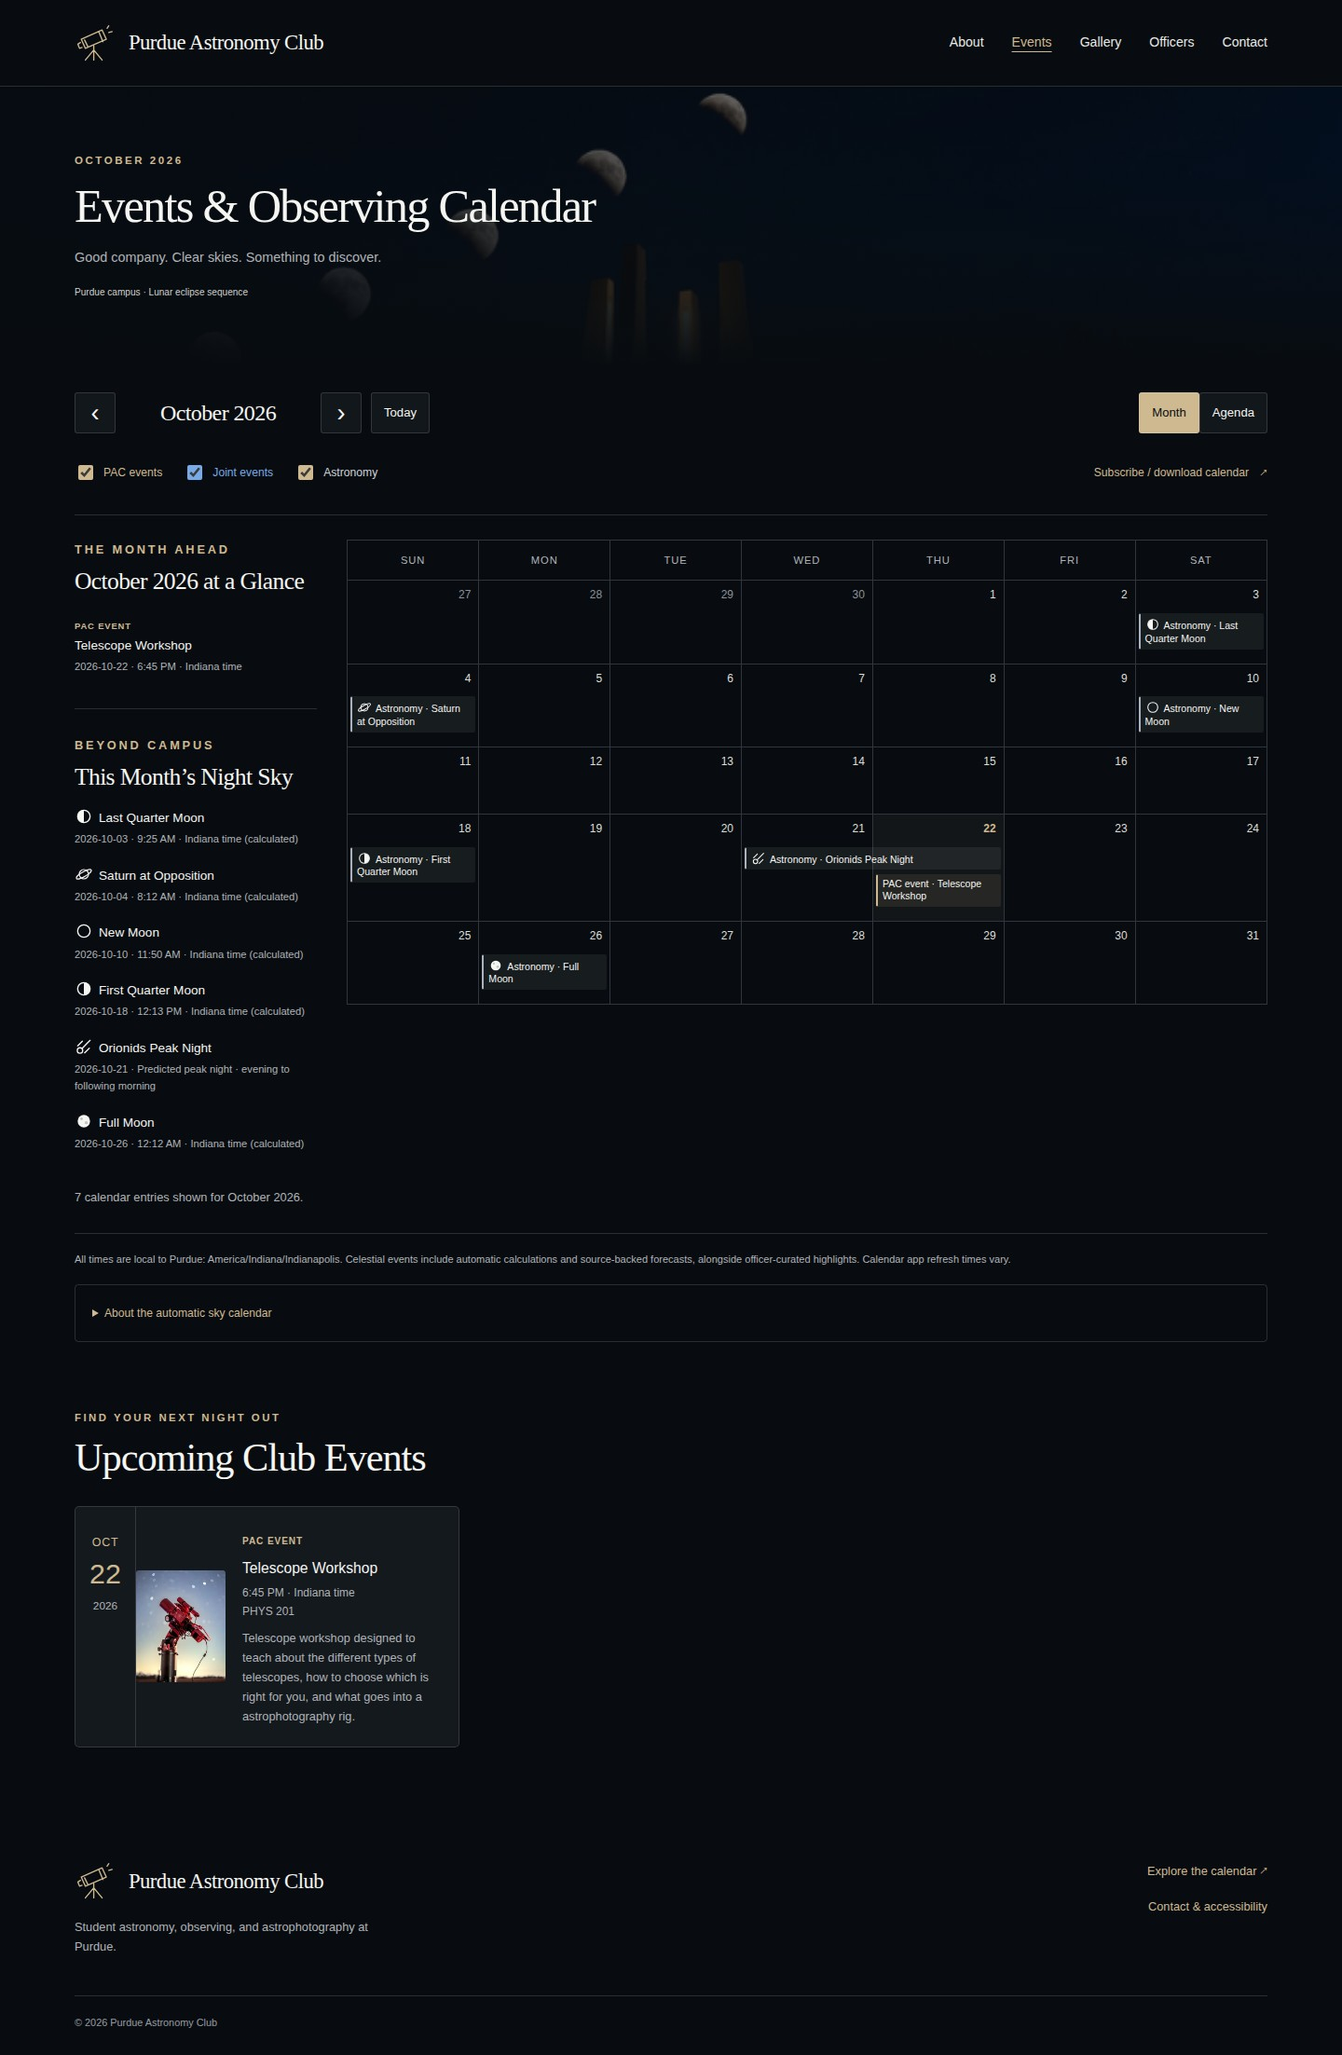
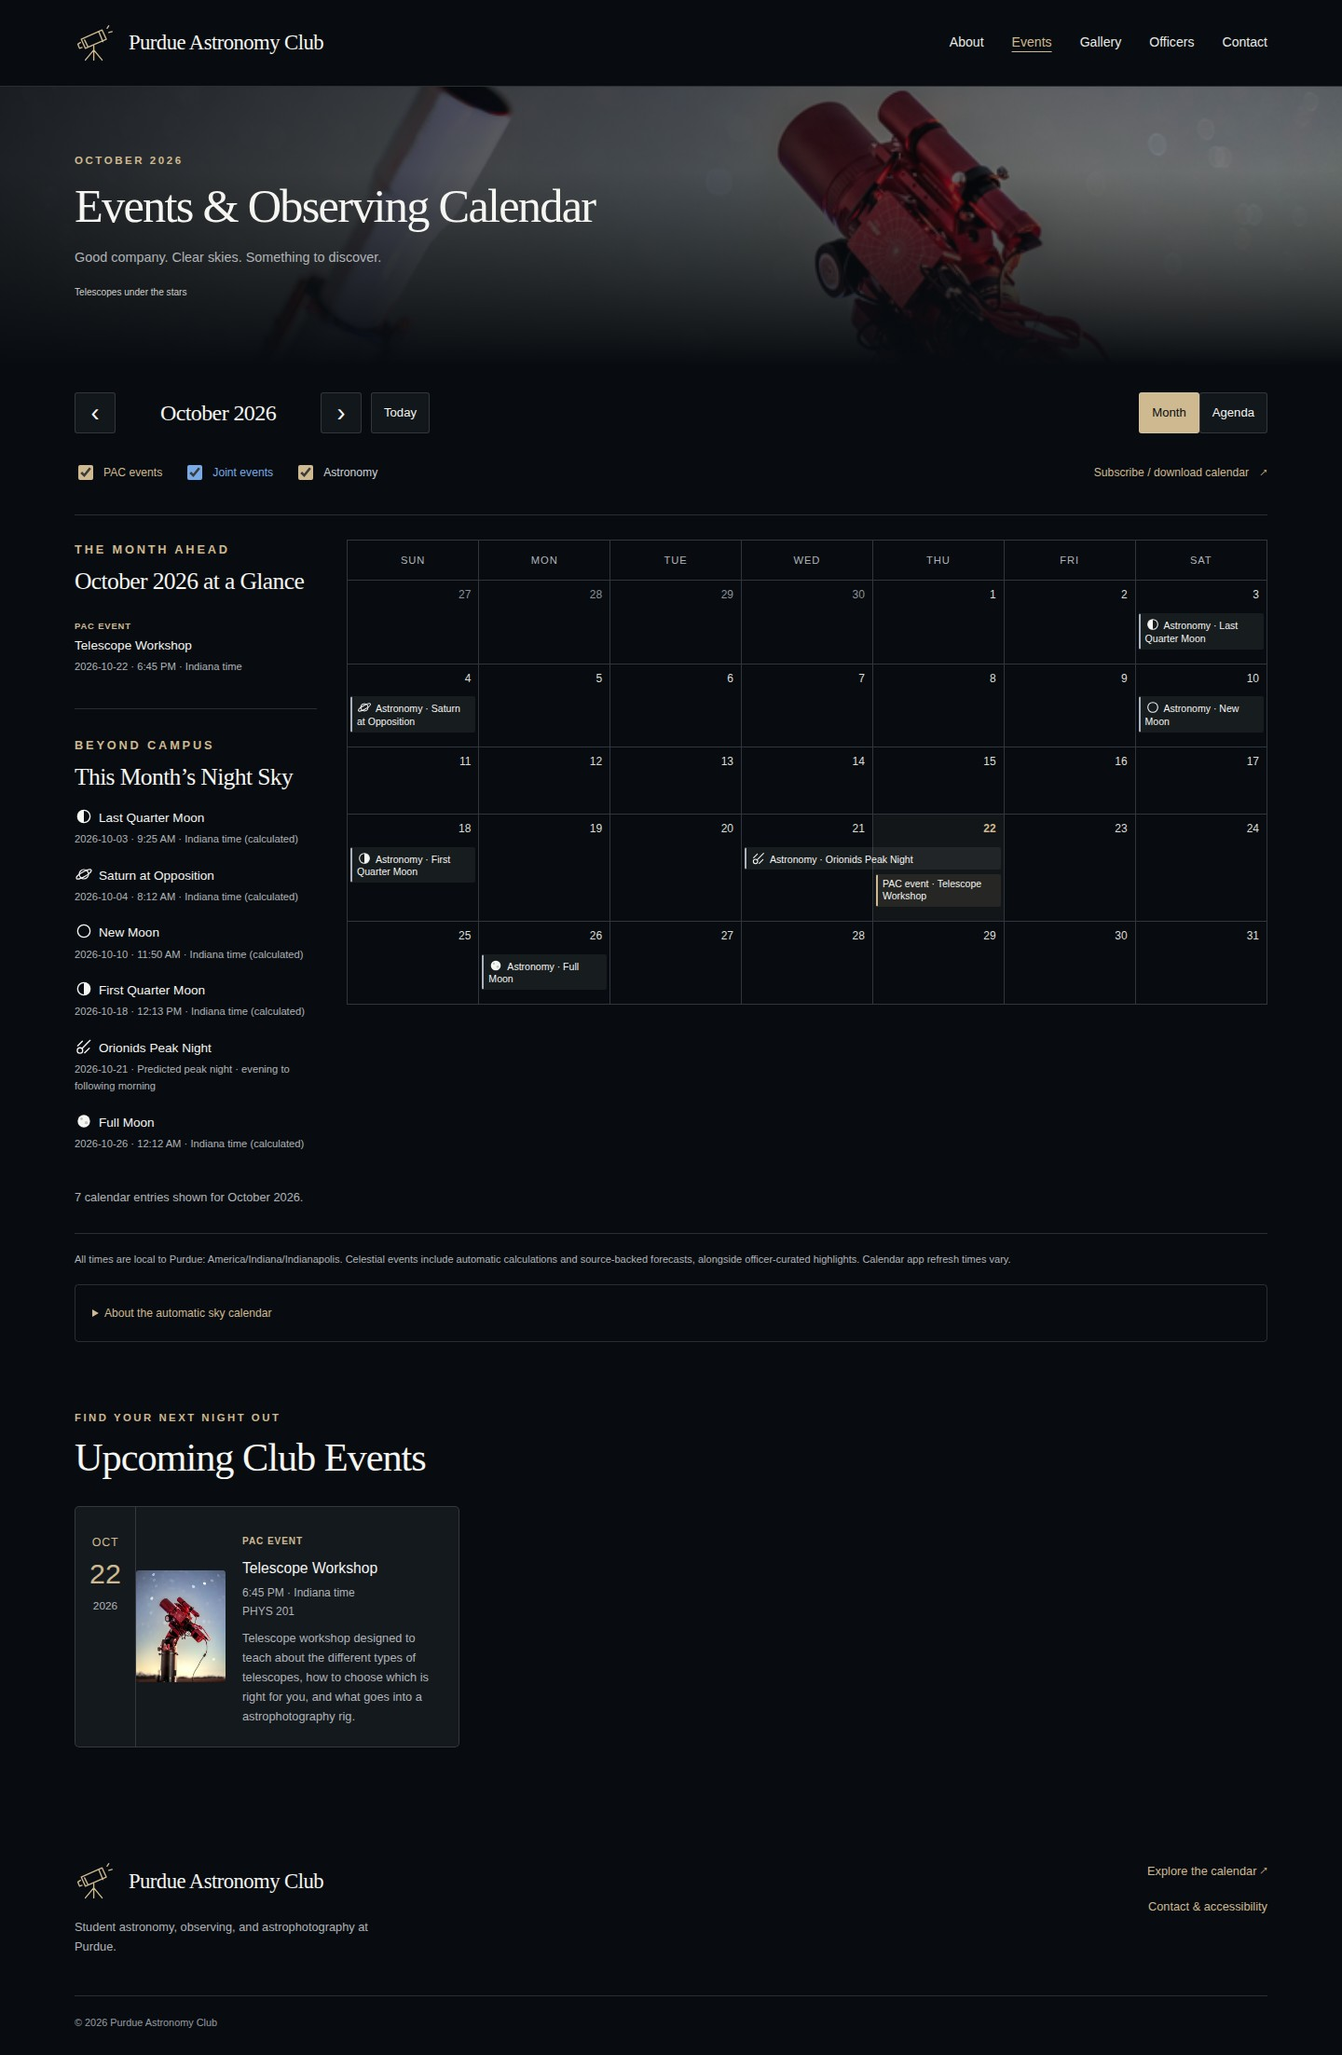
Use telescope photo for Events and bypass stale calendar caches

Changed region(s): [[0.0312, 0.0308, 1.0, 0.185]]

diff --git a/tests/e2e/project-path.spec.js b/tests/e2e/project-path.spec.js
@@ -11,6 +11,7 @@ test('a GitHub Pages project path loads styles, photos, calendar data and intern
   const checkout = mkdtempSync(join(tmpdir(), 'pac-project-test-'));
   const ignored = new Set(['media', 'drive-gallery', 'events', 'astronomy', 'events.json', 'months.json', 'calendar.ics']);
   let server;
+  let seedStaleCalendar = true;
   try {
     for (const folder of ['assets', 'content', 'data', 'layouts', 'static', 'scripts', 'hugo.yaml']) {
       cpSync(join(source, folder), join(checkout, folder), {recursive: true, filter: path => {
@@ -25,10 +26,17 @@ test('a GitHub Pages project path loads styles, photos, calendar data and intern
     });
     // Serve only /website/. A mistakenly requested /css, /media or /events.json
     // must return 404, matching GitHub project hosting instead of the root preview.
-    const types = {'.html': 'text/html', '.css': 'text/css', '.js': 'text/javascript', '.json': 'application/json', '.svg': 'image/svg+xml', '.webp': 'image/webp', '.ics': 'text/calendar'};
+    const types = {'.html': 'text/html', '.css': 'text/css', '.js': 'text/javascript', '.json': 'application/json', '.svg': 'image/svg+xml', '.webp': 'image/webp', '.png': 'image/png', '.ics': 'text/calendar'};
     server = createServer((req, res) => {
       const path = new URL(req.url, 'http://localhost').pathname;
       if (!path.startsWith('/website/')) { res.writeHead(404).end(); return; }
+      if (seedStaleCalendar && req.url === '/website/events/') {
+        seedStaleCalendar = false;
+        res.setHeader('Content-Type', 'text/html');
+        res.setHeader('Cache-Control', 'max-age=600');
+        res.end('<!doctype html><h1>Old cached Events page</h1>');
+        return;
+      }
       let file = join(checkout, 'public', decodeURIComponent(path.slice('/website/'.length)));
       if (existsSync(file) && statSync(file).isDirectory()) file = join(file, 'index.html');
       if (!existsSync(file)) { res.writeHead(404).end(); return; }
@@ -37,6 +45,10 @@ test('a GitHub Pages project path loads styles, photos, calendar data and intern
     });
     await new Promise(resolve => server.listen(0, '127.0.0.1', resolve));
     const base = `http://127.0.0.1:${server.address().port}/website/`;
+    // Reproduce visiting Events before a deployment. Clicking from the updated
+    // homepage must bypass this still-fresh cached HTML without a manual reload.
+    await page.goto(base + 'events/');
+    await expect(page.getByRole('heading')).toHaveText('Old cached Events page');
     const failures = [];
     page.on('response', response => { if (response.status() >= 400) failures.push(response.url()); });
     page.on('pageerror', error => failures.push(error.message));
@@ -47,8 +59,17 @@ test('a GitHub Pages project path loads styles, photos, calendar data and intern
     await page.locator('.hero-image').evaluate(img => img.decode());
     if (browserName === 'chromium') await page.screenshot({path: 'docs/screenshots/project-home-desktop.jpg', type: 'jpeg', quality: 90});
     await page.getByRole('navigation', {name: 'Main navigation'}).getByRole('link', {name: 'Events', exact: true}).click();
-    await expect(page).toHaveURL(/\/website\/events\/(?:\?month=\d{4}-\d{2})?$/);
+    expect(new URL(page.url()).pathname).toBe('/website/events/');
+    expect(new URL(page.url()).searchParams.get('v')).toMatch(/^[a-f0-9]{12}$/);
     await page.waitForFunction(() => window.calendarReady === true);
+    const banner = page.locator('#month-banner');
+    await expect(banner).toHaveAttribute('src', /^\/website\/images\/events-telescopes\.[a-f0-9]{64}\.png$/);
+    await banner.evaluate(img => img.decode());
+    const telescopeImage = await banner.getAttribute('src');
+    await page.getByRole('button', {name: 'Next month', exact: true}).click();
+    await expect(banner).toHaveAttribute('src', telescopeImage);
+    await expect(page.locator('#banner-credit')).toHaveText('Telescopes under the stars');
+    await page.getByRole('button', {name: 'Previous month', exact: true}).click();
     await expect(page.locator('#enhanced-calendar')).toBeVisible();
     await expect(page.getByRole('link', {name: 'Subscribe / download calendar'})).toHaveAttribute('href', '/website/calendar.ics');
     const event = page.locator('#calendar a[href^="/website/astronomy/"]').first();

diff --git a/layouts/_partials/calendar.html b/layouts/_partials/calendar.html
@@ -1,6 +1,6 @@
-{{ $fallback := resources.Get "images/hero-lunar-eclipse.png" }}
+{{ $photo := resources.Get "images/events-telescopes.png" }}{{ $fallback := $photo | fingerprint }}
 <div class="calendar-page" data-calendar-page>
-<section class="calendar-banner"><img id="month-banner" src="{{ $fallback.RelPermalink }}" alt="Sequence of lunar eclipse phases above an illuminated sculpture on Purdue’s campus." width="{{ $fallback.Width }}" height="{{ $fallback.Height }}"><div class="calendar-banner-shade"></div><div class="container"><p class="eyebrow" id="banner-month">{{ now.Format "January 2006" }}</p><h1>Events & Observing Calendar</h1><p>Good company. Clear skies. Something to discover.</p><p id="banner-credit" class="photo-credit">Purdue campus · Lunar eclipse sequence</p></div></section>
+<section class="calendar-banner"><img id="month-banner" src="{{ $fallback.RelPermalink }}" alt="Two telescopes beneath a starry sky, with red light illuminating the equipment." width="{{ $photo.Width }}" height="{{ $photo.Height }}"><div class="calendar-banner-shade"></div><div class="container"><p class="eyebrow" id="banner-month">{{ now.Format "January 2006" }}</p><h1>Events & Observing Calendar</h1><p>Good company. Clear skies. Something to discover.</p><p id="banner-credit" class="photo-credit">Telescopes under the stars</p></div></section>
 <div class="container calendar-content"><div class="calendar-toolbar" id="calendar-controls" hidden><div class="month-navigation"><button type="button" id="previous-month" aria-label="Previous month">‹</button><h2 id="month-title" aria-live="polite"></h2><button type="button" id="next-month" aria-label="Next month">›</button><button type="button" id="today-month">Today</button></div><div class="view-controls"><button type="button" data-view="dayGridMonth" aria-pressed="true">Month</button><button type="button" data-view="listMonth" aria-pressed="false">Agenda</button></div></div>
 <div class="calendar-topline"><fieldset class="calendar-filters" id="calendar-filters" hidden><legend class="sr-only">Show calendar categories</legend><label class="type-pac"><input type="checkbox" value="pac" checked> PAC events</label><label class="type-joint"><input type="checkbox" value="joint" checked> Joint events</label><label class="type-astronomy"><input type="checkbox" value="astronomy" checked> Astronomy</label></fieldset><a class="text-link subscribe-link" href="{{ relURL "calendar.ics" }}">Subscribe / download calendar <span aria-hidden="true">↗</span></a></div>
 <div class="calendar-layout" id="enhanced-calendar" hidden><aside class="calendar-sidebar"><section><p class="eyebrow">The month ahead</p><h2 id="glance-title">At a Glance</h2><div id="month-overview" aria-live="polite"></div></section><section><p class="eyebrow">Beyond campus</p><h2>This Month’s Night Sky</h2><div id="sky-notes"></div></section></aside><div id="calendar" aria-label="Events calendar"></div></div>

diff --git a/layouts/home.html b/layouts/home.html
@@ -3,7 +3,7 @@
 <section class="activities container" aria-label="What we explore">
 {{ range slice (dict "icon" "telescope" "title" "Observing Nights" "text" "Look up. See more.") (dict "icon" "camera" "title" "Astrophotography" "text" "Capture a little infinity.") (dict "icon" "workshop" "title" "Workshops" "text" "Learn through discovery.") (dict "icon" "community" "title" "Community" "text" "Curiosity brings us together.") }}
 <div>{{ partial "icon.html" .icon }}<h2>{{ .title }}</h2><p>{{ .text }}</p></div>{{ end }}</section>
-<section class="section container"><div class="section-heading"><div><p class="eyebrow">Under the same sky</p><h2>Upcoming Events</h2></div><a class="text-link" href="{{ relURL "events/" }}">View the calendar <span aria-hidden="true">→</span></a></div>
+<section class="section container"><div class="section-heading"><div><p class="eyebrow">Under the same sky</p><h2>Upcoming Events</h2></div><a class="text-link" href="{{ partial "events-url.html" . }}">View the calendar <span aria-hidden="true">→</span></a></div>
 {{ $events := where hugo.Data.generated.events "upcoming" true }}{{ if $events }}<div class="event-grid">{{ range first 3 $events }}{{ partial "event-card.html" . }}{{ end }}</div>{{ else }}{{ partial "empty-state.html" (dict "title" "The next night out is on the horizon." "text" "No events announced yet. Check the calendar for the next opportunity to explore with us." "url" "/events/" "label" "Explore the calendar") }}{{ end }}</section>
 {{ if hugo.Data.home.show_gallery }}<section class="gallery-feature section"><div class="container"><div class="section-heading"><div><p class="eyebrow">A different perspective</p><h2 id="home-gallery-title">Through Our Lenses</h2></div><a class="text-link" href="{{ relURL "gallery/" }}">Explore the gallery <span aria-hidden="true">→</span></a></div>
 {{ $photos := slice }}

diff --git a/layouts/_partials/hero.html b/layouts/_partials/hero.html
@@ -1,5 +1,5 @@
 {{ $home := hugo.Data.home }}{{ $image := (resources.Get "images/hero-lunar-eclipse.png").RelPermalink }}{{ with $home.hero_image }}{{ $image = . }}{{ end }}
 <section class="hero" aria-labelledby="hero-title">
 {{ partial "optimized-image.html" (dict "src" $image "alt" $home.hero_image_alt "class" "hero-image" "loading" "eager" "sizes" "100vw") }}
-<div class="hero-shade"></div><div class="container hero-content">{{ with $home.eyebrow }}<p class="eyebrow">{{ . }}</p>{{ end }}<h1 id="hero-title">{{ if eq $home.headline "Purdue Astronomy Club" }}Purdue<br>Astronomy Club{{ else }}{{ $home.headline }}{{ end }}</h1><p class="hero-intro">{{ $home.introduction }}</p><div class="button-row"><a class="button" href="{{ relURL "events/" }}">{{ $home.primary_cta | default "Upcoming Events" }} <span aria-hidden="true">→</span></a><a class="button button-outline" href="{{ relURL "about/" }}">{{ $home.secondary_cta | default "About Our Club" }}</a></div></div>
+<div class="hero-shade"></div><div class="container hero-content">{{ with $home.eyebrow }}<p class="eyebrow">{{ . }}</p>{{ end }}<h1 id="hero-title">{{ if eq $home.headline "Purdue Astronomy Club" }}Purdue<br>Astronomy Club{{ else }}{{ $home.headline }}{{ end }}</h1><p class="hero-intro">{{ $home.introduction }}</p><div class="button-row"><a class="button" href="{{ partial "events-url.html" . }}">{{ $home.primary_cta | default "Upcoming Events" }} <span aria-hidden="true">→</span></a><a class="button button-outline" href="{{ relURL "about/" }}">{{ $home.secondary_cta | default "About Our Club" }}</a></div></div>
 <div class="hero-note">{{ $home.hero_credit | default "Club image" }}</div></section>

diff --git a/layouts/_partials/footer.html b/layouts/_partials/footer.html
@@ -1,6 +1,6 @@
 <footer class="site-footer"><div class="container footer-main">
 <div><a class="brand" href="{{ relURL "" }}"><span class="brand-mark">{{ partial "icon.html" "telescope" }}</span><span>Purdue Astronomy Club</span></a><p>{{ hugo.Data.site.footer_text }}</p></div>
-<div class="footer-links">{{ if where site.RegularPages "Section" "sponsors" }}<a href="{{ relURL "sponsors/" }}">Sponsors & partners</a>{{ end }}<a href="{{ relURL "events/" }}">Explore the calendar <span aria-hidden="true">↗</span></a><a href="{{ relURL "contact/" }}">Contact & accessibility</a>
+<div class="footer-links">{{ if where site.RegularPages "Section" "sponsors" }}<a href="{{ relURL "sponsors/" }}">Sponsors & partners</a>{{ end }}<a href="{{ partial "events-url.html" . }}">Explore the calendar <span aria-hidden="true">↗</span></a><a href="{{ relURL "contact/" }}">Contact & accessibility</a>
 {{ with hugo.Data.site.public_email }}<a href="mailto:{{ . }}">Email the club</a>{{ end }}
 {{ range slice "instagram" "discord" "github" }}{{ $label := . }}{{ with index hugo.Data.site . }}<a href="{{ . }}">{{ if eq $label "github" }}GitHub{{ else }}{{ $label | title }}{{ end }}</a>{{ end }}{{ end }}
 </div></div><div class="container footer-bottom"><span>© {{ now.Format "2006" }} Purdue Astronomy Club</span></div></footer>

diff --git a/layouts/_partials/head.html b/layouts/_partials/head.html
@@ -13,6 +13,7 @@
 {{ $hero := resources.Get "images/hero-lunar-eclipse.png" }}
 {{ $ogImage := $hero.Permalink }}{{ $ogAlt := "Sequence of lunar eclipse phases above an illuminated sculpture on Purdue’s campus." }}
 {{ if .IsHome }}{{ with hugo.Data.home.hero_image }}{{ $ogImage = (partial "site-url.html" .) | absURL }}{{ $ogAlt = hugo.Data.home.hero_image_alt }}{{ end }}{{ else }}{{ with .Params.image | default .Params.cover_image }}{{ $ogImage = (partial "site-url.html" .) | absURL }}{{ $ogAlt = $.Params.alt | default $.Params.image_alt | default $.Params.cover_alt }}{{ end }}{{ end }}
+{{ if or (and .IsSection (eq .Section "events")) (eq .Layout "poster") }}{{ $ogImage = ((resources.Get "images/events-telescopes.png") | fingerprint).Permalink }}{{ $ogAlt = "Two telescopes beneath a starry sky, with red light illuminating the equipment." }}{{ end }}
 <meta property="og:image" content="{{ $ogImage }}">
 <meta property="og:image:alt" content="{{ $ogAlt }}">
 <link rel="icon" href="{{ relURL "favicon.svg" }}" type="image/svg+xml">

diff --git a/layouts/_partials/nav.html b/layouts/_partials/nav.html
@@ -3,5 +3,5 @@
 <button class="menu-toggle" type="button" aria-expanded="false" aria-controls="main-nav" hidden>Menu <span aria-hidden="true">☰</span></button>
 <nav id="main-nav" aria-label="Main navigation">
 {{ $current := . }}{{ range slice "About" "Events" "Gallery" "Officers" "Contact" }}{{ $url := printf "/%s/" (lower .) }}
-<a href="{{ partial "site-url.html" $url }}"{{ if eq $current.RelPermalink (partial "site-url.html" $url) }} aria-current="page"{{ end }}>{{ . }}</a>{{ end }}
+<a href="{{ if eq . "Events" }}{{ partial "events-url.html" . }}{{ else }}{{ partial "site-url.html" $url }}{{ end }}"{{ if eq $current.RelPermalink (partial "site-url.html" $url) }} aria-current="page"{{ end }}>{{ . }}</a>{{ end }}
 </nav></div></header>

diff --git a/tests/e2e/site.spec.js b/tests/e2e/site.spec.js
@@ -55,7 +55,7 @@ test('monthly banner credit and sourced notes follow selected month',async({page
  await expect(page.locator('#banner-credit')).toHaveText('Photo: Test photographer');
  await expect(page.locator('#sky-notes')).toContainText('Fixture sky notes');
  await page.getByRole('button',{name:'Next month',exact:true}).click();
- await expect(page.locator('#banner-credit')).toHaveText('Purdue campus · Lunar eclipse sequence');
+ await expect(page.locator('#banner-credit')).toHaveText('Telescopes under the stars');
  await expect(page.locator('#sky-notes')).not.toContainText('Fixture sky notes');
 });
 test('local photo preparation produces a download without an upload',async({page})=>{

diff --git a/layouts/_markup/render-link.html b/layouts/_markup/render-link.html
@@ -1,1 +1,1 @@
-<a href="{{ partial "site-url.html" .Destination }}"{{ with .Title }} title="{{ . }}"{{ end }}>{{ .Text | safeHTML }}</a>
+<a href="{{ if eq .Destination "/events/" }}{{ partial "events-url.html" . }}{{ else }}{{ partial "site-url.html" .Destination }}{{ end }}"{{ with .Title }} title="{{ . }}"{{ end }}>{{ .Text | safeHTML }}</a>

diff --git a/layouts/_partials/events-url.html b/layouts/_partials/events-url.html
@@ -1,0 +1,4 @@
+{{- /* A changed background also invalidates browsers' cached Events HTML. */ -}}
+{{- $photo := resources.Get "images/events-telescopes.png" -}}
+{{- $version := substr (crypto.SHA256 $photo.Content) 0 12 -}}
+{{- return (printf "%s?v=%s" (relURL "events/") $version) -}}

diff --git a/tests/test_integration.py b/tests/test_integration.py
@@ -85,7 +85,7 @@ class IntegrationTests(unittest.TestCase):
                 parser=Links();parser.feed((root/'public/index.html').read_text())
                 self.assertTrue(any(url.startswith('/website/css/') for url in parser.links))
                 self.assertTrue(any(url.startswith('/website/media/') for url in parser.links))
-                self.assertIn('/website/events/',parser.links)
+                self.assertTrue(any(url.startswith('/website/events/?v=') for url in parser.links))
                 records=json.loads((root/'public/events.json').read_text())
                 self.assertEqual(records[0]['url'],'/website/events/fixture-event/')
                 self.assertEqual(records[0]['coverImage'],'/website/uploads/fixture-0.jpg')

diff --git a/docs/CONTENT_STYLE_GUIDE.md b/docs/CONTENT_STYLE_GUIDE.md
@@ -8,4 +8,4 @@ Every informative image needs alt text describing what is visible. Use captions 
 
 Obtain permission before publishing photographs or personal information. Check backgrounds for sensitive details, export web copies without location metadata, and retain originals elsewhere. The photo preparation tool is an optional browser-only aid; review its output. Source uploads in GitHub are public even when a content entry is a draft.
 
-The default background is a lunar eclipse sequence above Purdue’s campus. A replacement club photograph should have its own accurate alt text and credit. Do not imply Purdue or a sponsor has endorsed the club unless that relationship is confirmed.
+The homepage background is a lunar eclipse sequence above Purdue’s campus; the calendar’s default background shows telescopes under the stars. A replacement club photograph should have its own accurate alt text and credit. Do not imply Purdue or a sponsor has endorsed the club unless that relationship is confirmed.
